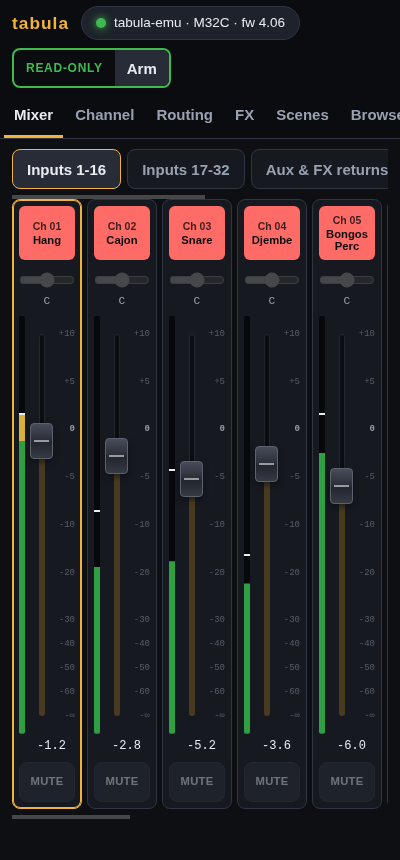
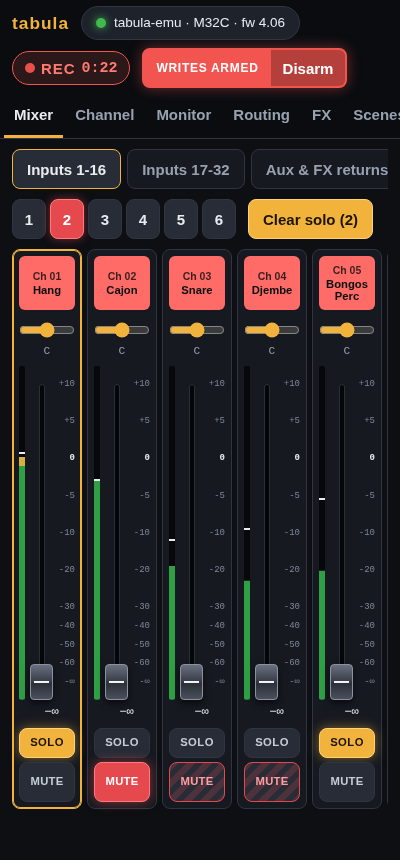
Docs: USB stick backup, Monitor page, who is online, quotes in names
The GUI guide (Mixer solo and mute groups, the Monitor page, the backup on
the Record page, Online on the Access page), the recording guide (Backup
on the console's USB stick), access (Who is online), the API (record/usb,
usb and usb_backup, the online event, Online, session names), the
emulator (recording to the stick, exclusive solo, quotes), the site's
feature list, the plan and the changelog. New screenshots from the demo
scene.

diff --git a/docs/API.md b/docs/API.md
@@ -158,6 +158,8 @@ entries `/-usb/dir/001`…`999` are lazy nodes: not read when connecting.
   (made on the console or by another remote app), `local` (made through
   this server from its machine) or `web <name>` (through an access link);
 - `access`: the musicians' permission changed — read `/api/whoami` again;
+- `online`: which devices have a page open (`Online`, see Access), each
+  time an event stream opens or closes; to engineers only;
 - `resync`: the initial sync finished, or this stream dropped events (a
   browser too slow to take them) — reload `/api/state`;
 - `record`: a `Record` (recording, replay, audio);
@@ -209,7 +211,7 @@ A refused request gets 403 with `{"error": "..."}`.
 | GET | `/api/whoami` | | `{"role", "name"?, "bus"?, "buses"?, "local", "link", "session", "password", "musicians_can_write"}` |
 | POST | `/api/login` | `{"password": "..."}` | signs in with the engineer password: makes a session, sets the cookie, answers the new `whoami`; 403 wrong password, 429 too many wrong ones (with `Retry-After`), 409 no password set |
 | POST | `/api/logout` | | forgets the cookie (and ends a session); answers the new `whoami` |
-| GET | `/api/access` | | `{"grants": [Grant], "musicians_can_write", "password", "current"?, "guest", "urls", "reachable"}` |
+| GET | `/api/access` | | `{"grants": [Grant], "musicians_can_write", "password", "current"?, "guest", "urls", "reachable", "online": Online}` |
 | POST | `/api/access` | `{"name": "Theo", "role": "musician", "bus": 3}` | 201 + `Grant` |
 | DELETE | `/api/access/{id}` | | 204; event streams opened with it end |
 | POST | `/api/access/settings` | `{"musicians_can_write": false}` | the access status |
@@ -223,6 +225,15 @@ the caller. `urls` lists where other devices reach
 this `tabula` (one per address of the machine when it listens on all of
 them); `reachable` is false when it listens on the machine only.
 
+`Online`: `{"grants": {id: {"streams", "addr"?, "seen"}}, "guests":
+[address]}` — for each access used since `tabula` started, how many event
+streams are open with it now (0: offline), the IP address of the last one
+and when it last opened or closed one; `guests` are the addresses of the
+devices with a stream open without an access (not this machine). On Linux
+the GUI's connections close once their data goes unanswered for 20 s
+(`TCP_USER_TIMEOUT`), so a phone gone off the Wi-Fi goes offline within
+half a minute.
+
 `login` and a wrong `current` password count as tries: after 5 wrong
 passwords in a row a client waits 30 s, twice as long after each further
 one (up to an hour), and all clients together get 30 wrong passwords a
@@ -232,7 +243,8 @@ file; `tabula -reset-password` removes it.
 ## Recording and replay
 
 Sessions are directories under `-sessions` (default `./sessions`), named by
-their start time (`2026-10-17_203000`): `meta.json`, `start.scn` (the
+their start time (`2026-10-17_203000`, `2026-10-17_203000-2` for a second
+recording started within the same second): `meta.json`, `start.scn` (the
 snapshot, a regular scene file), `start.nodes` (other nodes), `events.jsonl`
 (one change or marker per line: `{"t": seconds, "addr", "text", "value",
 "origin"}` or `{"t", "marker"}`).
@@ -243,13 +255,24 @@ snapshot, a regular scene file), `start.nodes` (other nodes), `events.jsonl`
 | POST | `/api/record/start` | `{"note": "set 1"}` | `Record` (409 if not connected or already recording). With audio, it answers once the audio delivers samples or has failed (3 s at most), so `audio.state` says whether it runs |
 | POST | `/api/record/mark` | `{"label": "Song 2"}` (default: `Marker 12m34s`, the time since the start) | `Record` |
 | POST | `/api/record/stop` | | `Record` |
+| POST | `/api/record/usb` | `{"on": true}` | `Record`: turns the backup on the console's USB stick on or off for the next recordings (kept in `audio.json` as `usb_backup`, which `POST /api/audio/config` leaves as it is); turned on during a recording, it starts now |
 | GET | `/api/sessions` | | `[{"name", "meta"}]`, newest first |
 | GET | `/api/sessions/{name}` | | `{"name", "meta", "markers": [Event], "snapshot", "scene"}`: `snapshot` counts the node lines of the console at the start (`start.scn` and `start.nodes`), `scene` says whether `start.scn` is there |
 | DELETE | `/api/sessions/{name}` | | 204: the session folder is removed, audio included (not `audio.json`); 409 while it is recorded or replayed |
 | POST | `/api/replay/start` | `{"session": name, "from": seconds, "speed": 1}` | 202 + `Record`; 403 unless writes are armed (a replay writes to the console) |
 | POST | `/api/replay/stop` | | `Record` |
 
-`Record`: `{"recording", "name"?, "meta"?: {"start", "events", "markers", "duration", "audio"?, …}, "replaying", "replay_of"?, "replay_at"?, "error"?, "audio"?}`.
+`Record`: `{"recording", "name"?, "meta"?: {"start", "events", "markers", "duration", "audio"?, "usb_backup"?, …}, "replaying", "replay_of"?, "replay_at"?, "error"?, "audio"?, "usb"}`.
+`usb` is the backup on the console's USB stick: `{"on" (the setting),
+"starting"?, "file"?, "already"?, "error"?}` for the recording, or the last
+one — the file the console records (`/R_20261026-203512.wav`), `already`
+when the console was recording before (Stop recording leaves it on), or
+why there is no backup (no stick, the player in use, the console not
+starting). `meta.usb_backup` keeps `{"file"?, "already"?, "error"?}` in the
+session. With the setting on, starting a recording sets
+`/-stat/tape/state` to RECORD (4) without writes armed, unless the
+console's player plays or is paused, and stopping it (Stop, Disconnect,
+`tabula` stopping) sets it to STOP (0), unless the player was used since.
 A session's `damaged`: the lines of its `events.jsonl` that do not read (their
 changes are skipped, and logged as an error).
 `audio` is the state of the audio capture of the recording (or of the last

diff --git a/docs/gui.md b/docs/gui.md
@@ -27,18 +27,26 @@ has.
 every page (once signed in, when an engineer password is set). Other
 devices get a role from an access link: viewers see the
 Mixer, Channel and Browser pages read-only; musicians only get their in-ear
-mix. Routing, FX, Scenes, USB, In-ears, Record, Access and Connect are
-engineer pages. See [access](access.md).
+mix. Monitor, Routing, FX, Scenes, USB, In-ears, Record, Access and Connect
+are engineer pages. See [access](access.md).
 
 ## Mixer
 
 Banks of strips, as on the console: inputs 1-16 and 17-32, aux inputs and
 FX returns, buses, matrices and mains, DCAs. Each strip has its scribble
-strip (name and colour), meter, fader, mute and pan. Tap a scribble strip to
-select it for the Channel page. Names of two words take two lines
+strip (name and colour), meter, fader, solo, mute and pan. Tap a scribble
+strip to select it for the Channel page. Names of two words take two lines
 (`Guitare Elec`), so the 12 characters the console allows show in full.
 
-![Inputs 1-16 of a show](img/mixer.png)
+Next to the banks, the console's six **mute groups** (red when on) and
+**Clear solo**, which says how many strips are soloed. A strip that a mute
+group or a muted DCA silences, though its own mute is off, shows a hatched
+MUTE: its tooltip says what silences it (*mute group 2*, *DCA 3*). SOLO
+works as on the console: what is soloed goes to the monitor and the
+headphones only (the [Monitor](#monitor) page sets how).
+
+![Inputs 1-16 of a show: Ch 01 and 05 soloed, Ch 02 muted, mute group 2
+on (Ch 03-04), DCA 3 muted (Ch 07, the vocals)](img/mixer.png)
 
 On a phone, the banks scroll sideways:
 
@@ -83,6 +91,26 @@ The Source row of the Config section also shows the physical input
 (`In 12 · AES50 A 12`).
 
 ![The Preamp section of a bass DI: AES50 A 7, gain, phantom on](img/gui-headamp.png)
+
+## Monitor
+
+What the console's monitor and headphone outputs play, and the talkback
+and the oscillator:
+
+- **Solo**: the strips soloed, each a button that unsolos it, and **Clear
+  solo**; *Exclusive* (one solo at a time), *Solo follows select*, *Select
+  follows solo*, and PFL or AFL for inputs, buses and DCAs.
+- **Monitor**: level, source (`LR`, `LR+C`, `LRPFL`, `LRAFL`, `AUX56`,
+  `AUX78`), source trim, mono, dim and by how much, dim PFL, mute, delay.
+- **Talkback** A and B: **TALK A** talks while held, as on the console
+  (with *Latch* on, a press turns it on and the next one off); its level,
+  whether it dims the monitor, and who it talks to (buses 1-16, LR, M/C).
+- **Oscillator**: where the tone goes (a bus, L, R, L+R, M/C, a matrix),
+  sine, pink or white noise, its level and two frequencies. **Start the
+  tone…** says what goes where and asks first: sent to the main mix, the
+  audience hears it. While it runs, the card says so.
+
+![The Monitor page](img/gui-monitor.png)
 
 ## Routing
 
@@ -260,7 +288,9 @@ the current folder of the stick: **Open** a folder (or the parent folder),
 console (after a confirmation: the console loads it from the stick). The
 file in the player is marked. Every command needs armed writes; the sound
 goes where the console's routing sends its USB player. While the console
-records to its stick (from its own screen), ■ Stop asks first.
+records to its stick, ■ Stop asks first, and says whether it is the backup
+of tabula's recording ([Record](#record)) or a recording started on the
+console.
 
 ![The console's USB stick and player](img/gui-usb.png)
 
@@ -306,6 +336,15 @@ Record a show as a session, which keeps two things, as the page says above
   When the audio settings were changed on the page and not saved, **Start
   recording** asks first: save them, discard them, or cancel, with what
   changed.
+- **USB stick**, when **Backup on the console's USB stick** is on: the
+  console's own recorder starts with the recording and writes a stereo WAV
+  file to the console's stick, by itself: a backup that goes on if the
+  laptop fails ([recording](recording.md#backup-on-the-consoles-usb-stick)).
+  The card shows it recording, its time and file (`/R_20261026-203512.wav`),
+  dropouts if the console reports some, and why it did not start (no stick,
+  the player in use); the session details keep the file name.
+
+![The backup on the console's USB stick, recording](img/record-usb-backup.png)
 
 ![Start recording asks about the audio settings not saved](img/audio-unsaved.png)
 
@@ -335,8 +374,11 @@ changes are missing, and where. See [recording](recording.md#replaying-a-session
 
 Make access links (with QR codes) for musicians, viewers and other engineer
 devices, and delete them to end that access. Set, change or remove the
-engineer password, and sign out the devices signed in with it. See
-[access](access.md).
+engineer password, and sign out the devices signed in with it. Each link
+and signed-in device says whether a page is open with it now (*Online*, with
+the device's address) or when it was last seen, and the links count those
+online: at the soundcheck, you see whose phone is on. See
+[access](access.md#who-is-online).
 
 ## Connect
 

diff --git a/docs/PLAN.md b/docs/PLAN.md
@@ -46,7 +46,7 @@ Driven by the unknown-request log while connecting the real editors:
 - [x] Effect parameters (`/fx/N/par/NN`): fields follow the effect type (switching effect loads its defaults); all 61 effects modelled, with ranges, steps, formats and defaults matching M32-Edit's built-in tables; 57 of 61 real parameter lines round-trip byte for byte, the other 4 (older firmware spellings) load and are written in today's form.
 - [x] Scenes/snippets/presets library: `/save`, `/load`, `/copy`, `/delete`, `/rename`, `/add` (cues), `/showdump`, with listings in `/-show` and `/-libs`, optionally kept in a directory (`-library`). Scene safes and snippet filters are not applied yet.
 - [x] Side effects of `/-action/*` (go scene/snippet/cue, clear solo, undo checkpoint and undo, init) and computed status (`/-insert`, `/-ha/NN/index` from sources and input routing, `/-stat/solo`).
-- [x] USB stick from a folder (`-usb`): directory listing, `/-action/recselect` (enter a directory, play a WAV file, load a scene or snippet), player state and time (`/-stat/tape`), previous/next (`/-action/playtrack`), folder mode, unmount; no sound, no recording to the stick (`docs/emulator.md`).
+- [x] USB stick from a folder (`-usb`): directory listing, `/-action/recselect` (enter a directory, play a WAV file, load a scene or snippet), player state and time (`/-stat/tape`), previous/next (`/-action/playtrack`), folder mode, unmount, recording (named and timed, nothing written); no sound (`docs/emulator.md`).
 - [x] Factory presets: `-presets` imports M32-Edit's library (channel, effect and routing presets).
 - [x] RTA of the source chosen with `/-action/setrtasrc` (channels, buses, graphic EQs, pre/post EQ), shaped by low cut, EQ and graphic EQ.
 - [x] Linked strips (channels, aux, FX returns, buses, matrices) kept in step, following `/config/linkcfg`, with the rules of M32-Edit's offline logic (see `docs/emulator.md`).
@@ -66,6 +66,7 @@ Driven by the unknown-request log while connecting the real editors:
 - [x] Scene files kept on the laptop (`-scenes`): load into the console line by line, save the console as one, open from the browser (`/api/scenefiles`).
 - [x] The console's USB stick and player: browse, play WAV files, transport, load scenes from the stick (`/api/usb`). Not yet tried on the real M32.
 - [x] Linked pairs shown as stereo strips in the mixer.
+- [x] Solo and Clear solo on the mixer, the six mute groups, strips silenced by a mute group or a muted DCA; Monitor page: solo modes, monitor, talkback A/B, oscillator (asks before its tone).
 
 ### 4. Recording and replay *(in progress)*
 - [x] Session = start snapshot (`.scn`, opens in M32-Edit) + time-stamped log of every change (who/what/when) + markers (`pkg/session`).
@@ -73,11 +74,12 @@ Driven by the unknown-request log while connecting the real editors:
 - [x] GUI for recording, markers, session browsing and replay.
 - [x] Audio of the console's USB card recorded with the session, in the same process (`pkg/audio`): an external recorder (arecord, parecord, ffmpeg or a custom command; no cgo) streams the card, one WAV file per track (24-bit by default, RF64 past 4 GiB, headers refreshed every 2 s), named from the console's routing; first-sample time and clock drift measured from the arrival of the samples and kept in `meta.json`; free space watched, clean stop before the disk is full; device listing; `-audio-*` flags (`docs/recording.md`).
 - [x] Exports for audio editors: Reaper project, Audacity label track, CSV of changes and markers.
+- [x] Backup on the console's USB stick, started and stopped with the recording (`POST /api/record/usb`). Not yet tried on the real M32.
 - [ ] Try the audio capture with the real DN32-USB card (Linux, then macOS/Windows through ffmpeg).
 
 ### 5. Live viewers, roles, band screens *(in progress)*
 - [x] One console connection shared by any number of browsers.
-- [x] Roles checked by the server: engineer (this machine, or an engineer link), musician (own in-ear bus only, phone page "In-ears", works without arming when allowed), viewer (read-only); access links with QR codes on the Access page, kept in `access.json`, revocable at once (`docs/access.md`).
+- [x] Roles checked by the server: engineer (this machine, or an engineer link), musician (own in-ear bus only, phone page "In-ears", works without arming when allowed), viewer (read-only); access links with QR codes on the Access page, kept in `access.json`, revocable at once (`docs/access.md`); the Access page shows which devices have a page open.
 - [ ] Board-mix audio streaming (WebRTC), setlist, PA calibration.
 
 ## Protocol notes

diff --git a/docs/emulator.md b/docs/emulator.md
@@ -18,7 +18,12 @@ This page says what is simulated, how, and what is not.
   preferences and status pages (`/-prefs`, `/-stat`, `/-show`, `/-libs`,
   `/-usb`, `/-urec`, `/-action`…). Values are stored as the console stores
   them: floats quantized to its steps, text written exactly as in its scene
-  files.
+  files. Node text cannot escape a double quote: a name holding one
+  (`Vox "Lead"`, set over OSC, where it is kept as sent) is written with an
+  apostrophe in node text, scene files and the library (`"Vox 'Lead'"`), so
+  that the line still reads back; a line a console wrote with the quote as
+  it is (`"Vox "Lead""`) still reads, a quote ending a string only before a
+  blank. What a real console does with it is not known.
 - Get and set of every parameter, node text with `/node` and `/`, node sets
   with several values, `/xremote`: a change is pushed to the other clients.
   Changes the console makes itself (linked partners, status values) are
@@ -39,6 +44,9 @@ This page says what is simulated, how, and what is not.
   `<other>`), and the first 512 bytes of each packet's text. A client is
   forgotten a minute after its last request, once it holds no subscription
   or `/xremote` lease.
+- Solo: `/-stat/solo` is on while a solo switch is; with
+  `/config/solo/exclusive` on, a solo switched on turns the others off;
+  `/-action/clearsolo` clears them.
 - Status the console computes: `/-stat/solo`, `/-insert` (where each effect
   is inserted), `/-ha/NN/index` (headamp feeding each channel, from its
   source and the input routing), `/-stat/rtasource` (from
@@ -180,15 +188,16 @@ tabula-emu -scene testdata/scenes/demo.scn -usb testdata/usb
 | `/-usb/dir/dirpos` | the entry last selected, 0 after entering a directory |
 | `/-usb/title` | the file selected, without its extension (`02 Opening`) |
 | `/-action/recselect n` | entry `n` of the current directory: `[..]` goes up, a directory is entered, a `.wav` file plays from its start, a `.scn` or `.snp` file is applied to the console as a scene load. Then it reads 0 again. |
-| `/-stat/tape/state` | 0 stop, 1 pause, 2 play (as the console's `STOP`, `PPAUSE`, `PLAY`). Setting 0 stops and goes back to the start of the file, 1 pauses a playing file, 2 resumes, or plays the stopped file again from its start. |
-| `/-stat/tape/file` | the file in the player, from the root of the stick: `/Breaks/Interval music.wav`; it stays after the end or a stop |
-| `/-stat/tape/etime`, `rtime` | the seconds played and left, pushed to the `/xremote` clients every second while playing; the length comes from the WAV header |
+| `/-stat/tape/state` | 0 stop, 1 pause, 2 play, 3 recording paused, 4 record (as the console's `STOP`, `PPAUSE`, `PLAY`, `RPAUSE`, `RECORD`). Setting 0 stops and goes back to the start of the file, 1 pauses a playing file, 2 resumes, or plays the stopped file again from its start. 4 records, 3 pauses the recording and 4 resumes it; while it records, the player and `/-action/recselect` wait. |
+| `/-stat/tape/file` | the file in the player, from the root of the stick: `/Breaks/Interval music.wav`; it stays after the end or a stop. While recording, the file being recorded, named after the time in the current directory: `/R_20261026-203512.wav`; empty once the recording stops (nothing was written). |
+| `/-stat/tape/etime`, `rtime` | the seconds played and left, pushed to the `/xremote` clients every second while playing; the length comes from the WAV header. While recording: the seconds recorded, and `rtime` -1 (the console counts dropouts there, as −(dropouts + 1): none here). |
 | `/-action/playtrack -1`, `1` | the previous or next WAV file of the player's directory, played from its start. Nothing changes at either end; with no file in the player, `1` plays the first WAV file of the current directory. |
 | `/config/tape/autoplay` | `ON` (folder mode): at the end of a file the next WAV file of its directory plays, the player stops after the last; `OFF`: it stops at the end of each file |
 
 Not emulated: no sound comes out (the WAV files are only read for their
-length); recording to the stick (`/-stat/tape/state` 3 and 4), fast forward
-and rewind (5, 6) are logged as unhandled and the player stays as it was;
+length); a recording writes nothing to the folder; fast forward and rewind
+(`/-stat/tape/state` 5, 6) are logged as unhandled and the player stays as
+it was;
 loading show, channel, effect, routing and preference files (`.shw`,
 `.chn`, `.efx`, `.rou`, `.prf`) from the stick is logged as unhandled;
 `/-usb/dir/NNN/type` stays empty (what the console writes there is not

diff --git a/CHANGELOG.md b/CHANGELOG.md
@@ -116,8 +116,44 @@
   how many console changes are missing when lines of its log are damaged;
   mute and pan buttons are named for screen readers; the Channel page no
   longer redraws its EQ editors with every RTA frame.
+- **Backup on the console's USB stick** (Record page): with it on, Start
+  recording also starts the console's own recorder, a stereo WAV file of
+  the main mix made by the console alone, which goes on if the laptop
+  fails; Stop recording stops it. It is not started over music playing
+  from the stick, a recording started on the console is left alone, and
+  the page shows the file, the time and the console's dropouts, or why
+  there is no backup; the session keeps the file name (`usb_backup`).
+  `POST /api/record/usb`. Untested on the real M32.
+- Solo, mute groups, talkback and the oscillator, reachable before only in
+  the Browser: SOLO on every strip of the Mixer and **Clear solo**, the six
+  mute groups next to the banks, and a hatched MUTE on strips that a mute
+  group or a muted DCA silences. A new **Monitor** page: what is soloed,
+  the solo modes (exclusive, PFL/AFL…), the monitor's level, source, dim
+  and mono, TALK A and B (held, or latched) with their destinations, and
+  the oscillator, which asks before sending its tone (to the PA, when it
+  goes to the main mix).
+- The Access page says whose page is open now (*Online*, with the
+  device's address) or when each link was last seen, and how many links
+  are online; an `online` event keeps it current. A phone gone off the
+  Wi-Fi shows offline within half a minute on Linux: the GUI's connections
+  close after 20 s of unanswered data, not the quarter of an hour TCP
+  waits.
+- A name holding double quotes (`Vox "Lead"`) no longer breaks the scene
+  files tabula writes and reads (sessions, scene files): node text has no
+  escape for it, so it is written with an apostrophe.
+- Stopping a recording and starting another within the same second failed
+  (*already holds a session*): the second one is named `…-2`.
 
 ### tabula-emu
+- Recording to the USB stick: `/-stat/tape/state` 4 records and 3 pauses
+  the recording; the file is named after the time
+  (`/R_20261026-203512.wav`) and its time counts, but nothing is written.
+- Exclusive solo (`/config/solo/exclusive`): a solo switched on turns the
+  others off.
+- A name holding double quotes no longer drops its node from undo, the
+  library and saved scenes: node text writes the quote as an apostrophe
+  and reads a console's raw quotes. A backslash in a scene name or note is
+  no longer doubled.
 - The debug page says when a subscription expires (`in 8s`), not `-8s ago`.
 - A USB stick in the console: `-usb dir` makes a folder stand for it,
   browsed and played as with Maillot's `X32USB`: the `/-usb/dir` listing

diff --git a/docs/index.md b/docs/index.md
@@ -99,7 +99,8 @@ tabula-emu -scene my-show.scn -save my-show.scn -http :8032
   shaped by the low cut, the EQ and the graphic EQ.
 - Linked channels, aux inputs, FX returns, buses and matrices kept in step
   as the console does, following the link options.
-- The USB stick's player and file browser, from a folder (`-usb`).
+- The USB stick's player and file browser, from a folder (`-usb`), and its
+  recorder (timed, nothing written).
 
 **[How the emulator simulates the console](emulator.md)**: audio flow,
 meters, RTA, effects, and exactly what linking two strips does.
@@ -122,7 +123,11 @@ tabula -console 192.168.1.62 -http :8033
 
 - **Mixer**: banks of strips (inputs, aux and FX returns, buses, matrices
   and mains, DCAs) with scribble strips in the console colours, meters,
-  faders, mutes and pans; linked pairs show as one stereo strip.
+  faders, solos, mutes and pans, the mute groups and Clear solo; linked
+  pairs show as one stereo strip, and a strip silenced by a mute group or a
+  DCA says so.
+- **Monitor**: what is soloed and how (PFL/AFL, exclusive), the monitor's
+  level, source and dim, talkback A and B, and the oscillator.
 - **Channel**: everything about one strip — config, preamp with the headamp
   feeding it (which input, gain, phantom power), gate, dynamics, EQ with its
   (approximate) response curve and the RTA, sends with the bus names.
@@ -150,12 +155,13 @@ tabula -console 192.168.1.62 -http :8033
 - **Record**: record a show (snapshot plus every change, with markers) and
   replay it onto the console or the emulator. With the console's USB card,
   the audio tracks are recorded too, one WAV file each, in sync with the
-  console moves, ready for Audacity or Reaper. See
-  [recording a show](recording.md).
+  console moves, ready for Audacity or Reaper; the console can keep a stereo
+  backup on its own USB stick. See [recording a show](recording.md).
 - **In-ear mixes for the band**: each musician scans a QR code and gets
   their own mix on their phone, and nothing else; viewers watch without
-  touching. An optional engineer password protects full control, on the
-  laptop too. See [access](access.md).
+  touching; the Access page shows whose phone is online. An optional
+  engineer password protects full control, on the laptop too. See
+  [access](access.md).
 - **Connect**: find consoles on the network or type an address.
 
 <p>

diff --git a/docs/recording.md b/docs/recording.md
@@ -253,6 +253,37 @@ few seconds) and the next recording waits for it. A console lost on the
 way (Wi-Fi) does not end it: `tabula` connects again by itself and the
 recording goes on.
 
+## Backup on the console's USB stick
+
+With **Backup on the console's USB stick** on (the Record page, kept in
+`audio.json` as `usb_backup`), **Start recording** also starts the
+console's own recorder (`/-stat/tape/state` RECORD). The console writes a
+stereo WAV file of what feeds its recorder to its USB stick: the main mix,
+unless the console's *Setup › Routing* sends its recorder something else
+(`/outputs/rec/01-02/src`). It does it by itself, so this backup goes on if
+the laptop crashes or its card drops out. **Stop recording** stops it; so
+do Disconnect and stopping `tabula`. Turned on during a recording, it
+starts at once.
+
+- The console names the file after the time (`R_20261026-203512.wav` on
+  the X32); the Record page shows it while it records, and the session's
+  `meta.json` keeps it (`usb_backup`), with the session details.
+- No stick in the console: the recording goes on without the backup, and
+  the page says why.
+- **Walk-in music** played from the stick is not interrupted: the console's
+  recorder cannot play and record at once, so the backup is not started
+  while the player plays or is paused. Start it on the console's recorder
+  screen once the music is over.
+- A recording started on the console already is left as it is: Stop
+  recording does not stop it.
+- The console counts dropouts while it records (a stick too slow): the
+  page shows them.
+- The console starts recording even when writes are not armed: the
+  setting asked for it.
+
+This backup is untested on the real M32 so far; `tabula-emu` records
+nothing, but names the file and counts its time.
+
 ## How the tracks line up with the session
 
 Session times count from the start of the recording; the audio starts a
@@ -396,4 +427,5 @@ these systems, only a failure of the recorder is told.
 
 See [the API](API.md#audio): the audio settings, the devices, a test of the
 input and the exports are engineer-only; the capture's state rides on the
-record status.
+record status, and so does the backup on the console's stick (`usb`, set
+with `POST /api/record/usb`).

diff --git a/docs/access.md b/docs/access.md
@@ -93,6 +93,19 @@ A musician cannot change anything else: not the send taps (pre/post), not
 another musician's mix, not the channels themselves. `tabula` checks every
 write, so this holds for anything talking to its API, not only its pages.
 
+## Who is online
+
+The Access page says, for each link and signed-in device, whether a page is
+open with it now (*Online*, with the address of the device) or when it was
+last seen, and the Links card counts those online: at the soundcheck, you
+see whose phone has its in-ear page open. An open page keeps a connection
+to `tabula`; a phone that closes it, or whose screen locks for long, goes
+offline. A phone that drops off the Wi-Fi sends nothing more: on Linux,
+`tabula` closes its connection once 20 s of data go unanswered, so it shows
+offline within half a minute (elsewhere the system takes longer). *Last
+seen* counts from the start of `tabula`. Devices open without a link (with
+`-guest viewer`) are listed by address.
+
 ## Managing links
 
 - **Delete** ends an access at once: the pages opened with it stop and show
